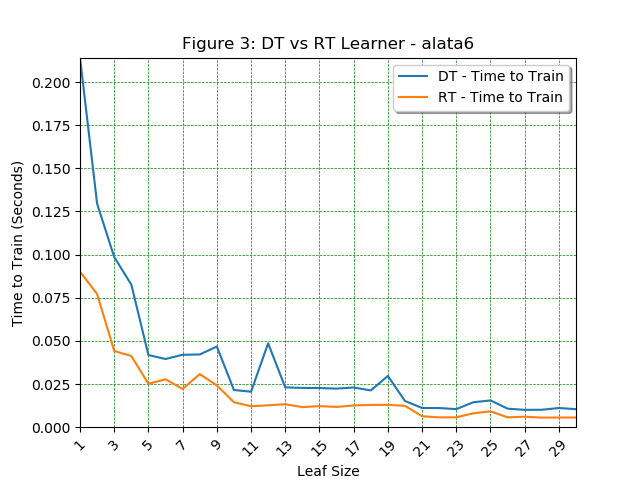
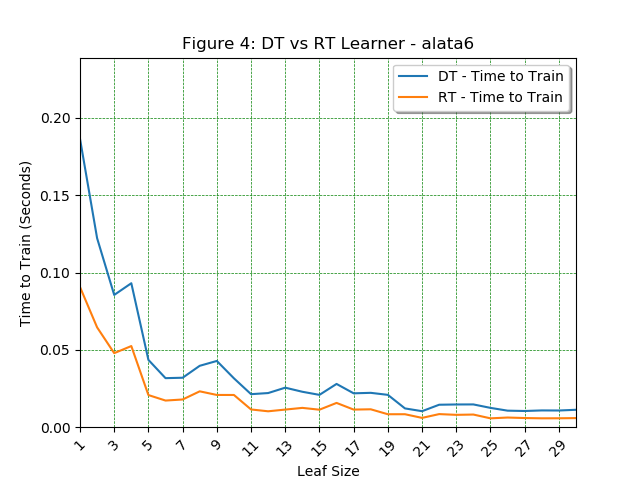
updating figure numbers

diff --git a/assess_learners/testlearner.py b/assess_learners/testlearner.py
@@ -407,7 +407,7 @@ if __name__ == "__main__":
     plt.xlabel('Leaf Size')
     plt.xticks(ticks=exp3_xticks, rotation=45)
     plt.ylabel('Root Mean Squared Error (RMSE)')
-    plt.title('Figure 4: DT vs RT Learner - alata6')
+    plt.title('Figure 5: DT vs RT Learner - alata6')
     plt.plot(exp3_dt_rmse_in_sample, label='DT - In Sample Test')
     plt.plot(exp3_dt_rmse_out_of_sample, label='DT - Out of Sample Test')
     plt.plot(exp3_rt_rmse_in_sample, label='RT - In Sample Test')
@@ -436,7 +436,7 @@ if __name__ == "__main__":
     plt.xlabel('Leaf Size')
     plt.xticks(ticks=exp3_xticks, rotation=45)
     plt.ylabel('Time to Train (Seconds)')
-    plt.title('Figure 3: DT vs RT Learner - alata6')
+    plt.title('Figure 4: DT vs RT Learner - alata6')
     plt.plot(exp3_dt_train_time, label='DT - Time to Train')
     plt.plot(exp3_rt_train_time, label='RT - Time to Train')
     plt.legend(loc='upper right', shadow=True, fontsize='medium')
